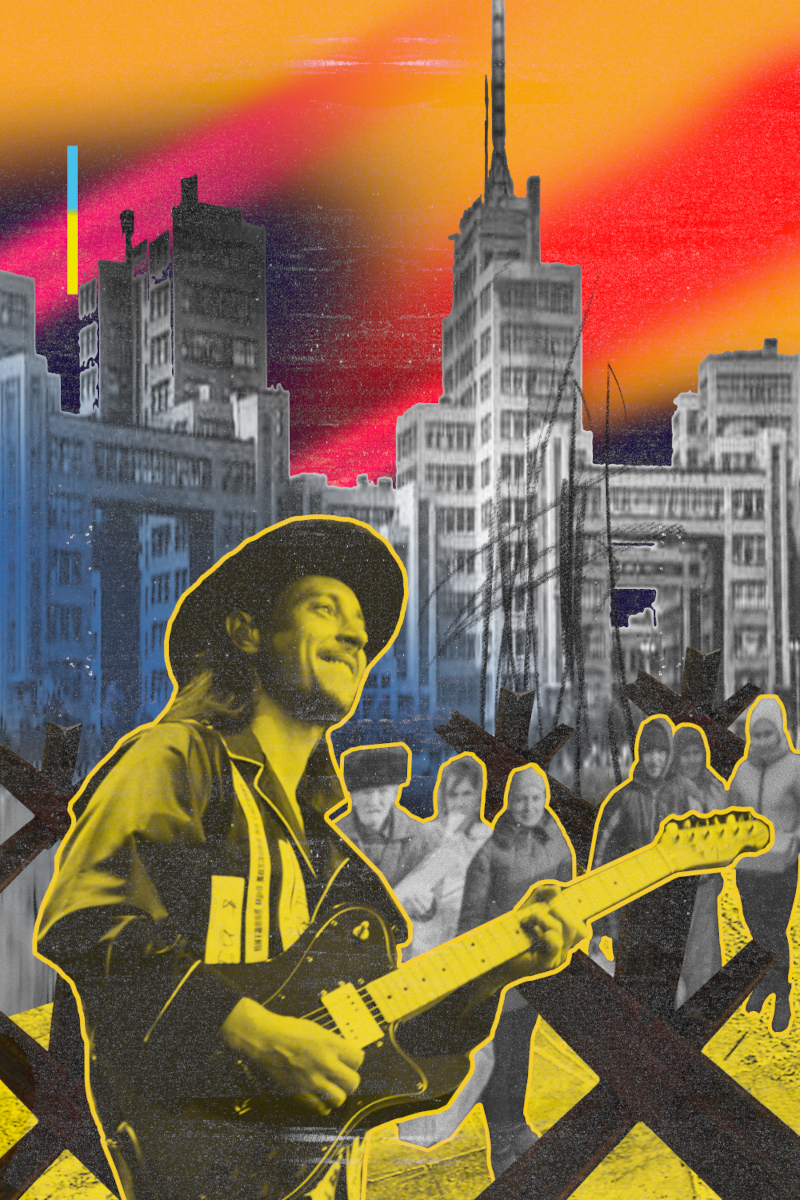
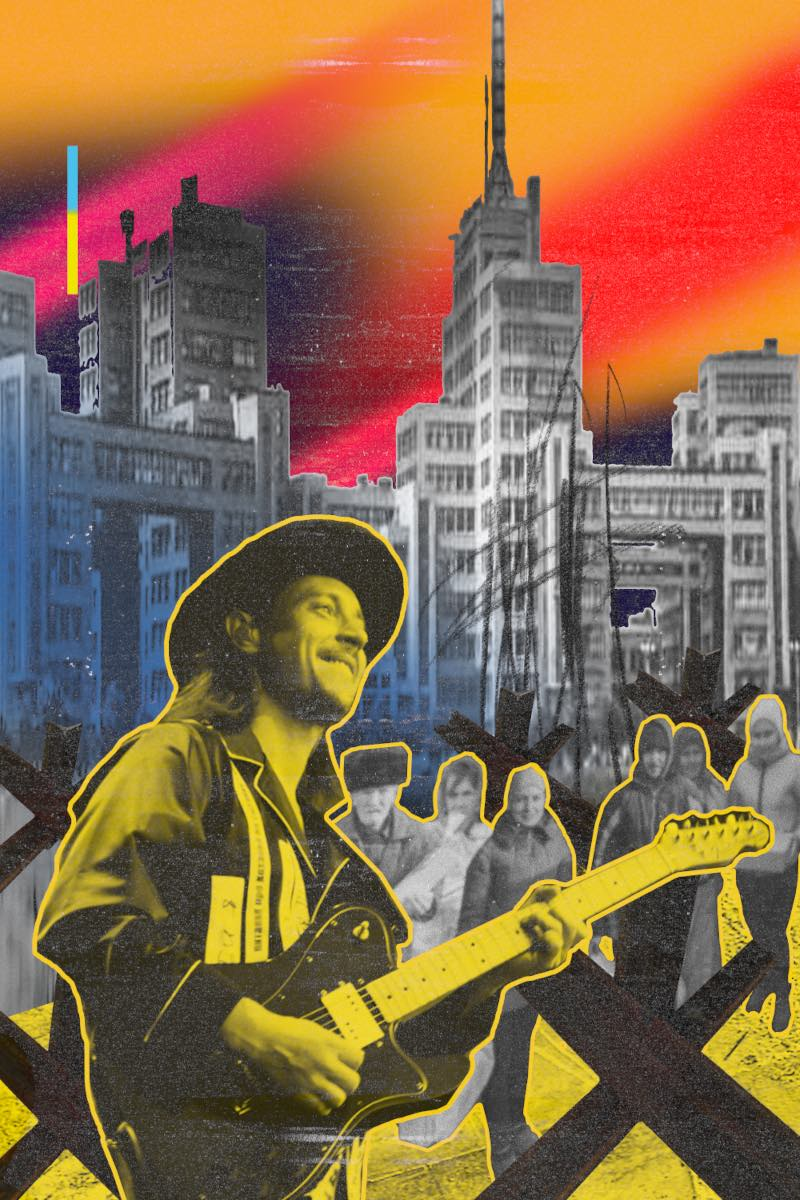
addded new audio and title artwrok

diff --git a/index.html b/index.html
@@ -641,7 +641,7 @@ setup.backThirty = () => {
 &lt;main class=&quot;&quot; id=&quot;&quot;&gt;
 
 &lt;div class=&quot;poster-wrapper&quot; id=&quot;poster&quot;&gt;
-   &lt;img class=&quot;poster&quot; src=&quot;./../assets/img/spirits.jpeg&quot;/&gt;
+   &lt;img class=&quot;poster&quot; src=&quot;./../assets/img/spirits-title.jpeg&quot;/&gt;
  &lt;/div&gt;
  &lt;div class=&quot;menu-wrapper&quot;&gt;
     &lt;&lt;button &quot;Keep going&quot;&gt;&gt;&lt;&lt;goto $nextpass&gt;&gt;&lt;&lt;/button&gt;&gt;
@@ -695,7 +695,7 @@ setup.backThirty = () => {
 &lt;&lt;set $showCaptionsIcon to false&gt;&gt;
 
 
-&lt;&lt;set $map = setup.generateViewMap({originLat: 53.402939134543324,originLong:-2.969497397902565, originName: &quot;Liverpool Everyman Theatre&quot;})&gt;&gt;
+&lt;&lt;set $map = setup.generateViewMap({originLat: 53.401592938405685,originLong: -2.9703296791325453, originName: &quot;Royal Liverpool Philharmonic&quot;})&gt;&gt;
 
 
 &lt;div id=&quot;audio&quot;&gt;&lt;/div&gt;
@@ -907,7 +907,7 @@ setup.backThirty = () => {
 &lt;&lt;include &quot;headerstory&quot;&gt;&gt;
 &lt;main class=&quot;story&quot; id=&quot;storyContainer&quot;&gt;
 &lt;audio id=&quot;audio&quot; &gt;
-  &lt;source src=&quot;https://www.dropbox.com/s/k0ctc95n24r8lle/02.%20Spirits%20of%20Concrete%20and%20Iron%20V1.mp3?raw=1&quot;&gt;
+  &lt;source src=&quot;https://withfireandrageliverpool.com/audio/SC/spiritsv2.mp3&quot;&gt;
   &lt;track kind=&quot;captions&quot; srclang=&quot;en&quot; label=&quot;English captions&quot; id=&quot;captrack&quot; default&gt;
 &lt;/audio&gt;
 &lt;div class=&quot;poster-wrapper&quot; id=&quot;poster&quot;&gt;
@@ -1038,7 +1038,7 @@ We don’t have the space to be emotional. So you go round in this circle. And c
 &lt;&lt;include &quot;headerstory&quot;&gt;&gt;
 &lt;main class=&quot;story&quot; id=&quot;storyContainer&quot; &gt;
 &lt;audio id=&quot;audio&quot; &gt;
-  &lt;source src=&quot;https://www.dropbox.com/s/w1zv0172ha8b1vs/Walk%202%20_%20Stas%20Acoustic%20Music%20V1%20%281%29.mp3?raw=1&quot;&gt;
+  &lt;source src=&quot;https://withfireandrageliverpool.com/audio/SC/staswalkv2.mp3&quot;&gt;
   &lt;track kind=&quot;captions&quot; srclang=&quot;en&quot; label=&quot;English captions&quot; id=&quot;captrack&quot; default&gt;
 &lt;/audio&gt;
 

diff --git a/README.md b/README.md
@@ -7,3 +7,8 @@ Captions
 need to fix poster that shows during audio so you dont need to scroll
 
 need to add maps co-ords
+
+# to compile twee
+
+source ~/.bash_profile &&
+tweego -o index.html template.tw -w
